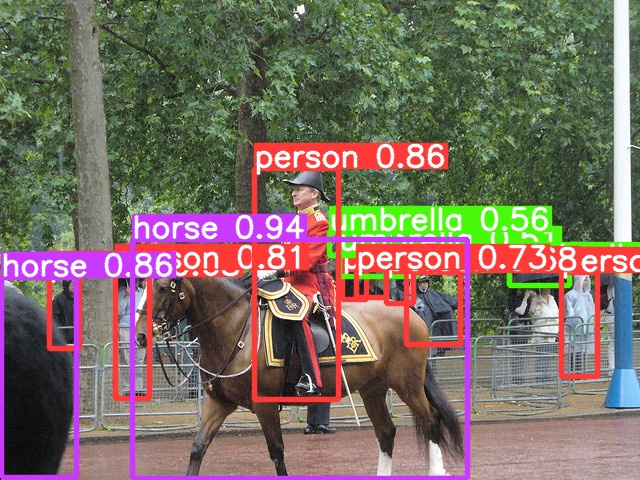
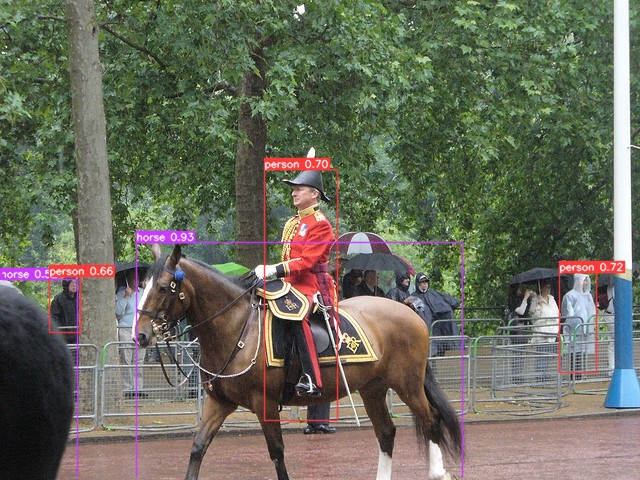
readme commit

Changed region(s): [[0.0, 0.2812, 1.0, 1.0]]

diff --git a/templates/index_bkp.html b/templates/index_bkp.html
@@ -11,7 +11,7 @@
 	<style>
 
 		.iupload h3 {
-			color: hsl(227, 66%, 25%);
+			color: #1b2d6b;
 			font-size: 30px;
 			font-weight: 700;
 		}
@@ -220,9 +220,9 @@ Model: <select name="model" id="model">
     <option value="" selected="selected">Please select framework first</option>
   </select>
   <br><br>
-<!-- Detection: <select name="detection" id="detection">
+Detection: <select name="detection" id="detection">
     <option value="" selected="selected">Please select model first</option>
-  </select> -->
+  </select>
    <input type="text" name="detectionData" value="" id="detectionData" ><br>
   <br><br>
   <!--<input type="submit" id="submit" value="Submit"> -->
@@ -417,7 +417,7 @@ var frameworkObject = {
 window.onload = function() {
   var frameworkSel = document.getElementById("framework");
   var modelSel = document.getElementById("model");
-//   var detectionSel = document.getElementById("detection");
+  var detectionSel = document.getElementById("detection");
   
   
   for (var x in frameworkObject) {
@@ -425,32 +425,32 @@ window.onload = function() {
   }
   frameworkSel.onchange = function() {
     //empty Detection- and Model- dropdowns
-    // detectionSel.length = 1;
+    detectionSel.length = 1;
     modelSel.length = 1;
     //display correct values
     for (var y in frameworkObject[this.value]) {
       modelSel.options[modelSel.options.length] = new Option(y, y);
     }
   }
-//   modelSel.onchange = function() {
+  modelSel.onchange = function() {
   
-//     //empty Detection dropdown
-//     detectionSel.length = 1;
-//     //display correct values
-//     var z = frameworkObject[frameworkSel.value][this.value];
-//     for (var i = 0; i < z.length; i++) {	
-//       detectionSel.options[detectionSel.options.length] = new Option(z[i], z[i]);
-//     }
+    //empty Detection dropdown
+    detectionSel.length = 1;
+    //display correct values
+    var z = frameworkObject[frameworkSel.value][this.value];
+    for (var i = 0; i < z.length; i++) {	
+      detectionSel.options[detectionSel.options.length] = new Option(z[i], z[i]);
+    }
 	
-// 	if(modelSel.value=="Others"){
-// 	 $('input[type=text]').show();
-// 	  $('#detection').hide();
-// 	}
-// 	else{
-// 	 $('input[type=text]').hide();
-// 	  $('#detection').show();
-// 	}
-//   }
+	if(modelSel.value=="Others"){
+	 $('input[type=text]').show();
+	  $('#detection').hide();
+	}
+	else{
+	 $('input[type=text]').hide();
+	  $('#detection').show();
+	}
+  }
   
   
 }

diff --git a/src/yolo_webapp/detect.py b/src/yolo_webapp/detect.py
@@ -7,20 +7,6 @@ sys.path.insert(0, ROOT)
 import argparse
 import torch
 import torch.backends.cudnn as cudnn
-
-# FILE = Path(__file__).resolve()
-# ROOT = FILE.parents[0]  # YOLOv5 root directory
-# ROOT="C:/Users/DELL/anaconda3/envs/test_new_v3/Lib/site-packages/yolo_webapp"
-# if str(ROOT) not in sys.path:
-#     sys.path.append(str(ROOT))  # add ROOT to PATH
-# print(Path.cwd())
-# print(ROOT)
-# os.chdir('c:')
-# print(Path.cwd())
-# ROOT = Path(os.path.relpath(ROOT, Path.cwd()))  # relative
-# print(os.getcwd())
-# print(ROOT)
-
 from models.common import DetectMultiBackend
 from utils.datasets import IMG_FORMATS, VID_FORMATS, LoadImages, LoadStreams
 from utils.general import (LOGGER, check_file, check_img_size, check_imshow, check_requirements, colorstr, cv2,
@@ -32,13 +18,6 @@ from com_ineuron_apparel.com_ineuron_utils import utils
 class DetectorYolov5():
 
     def __init__(self, filename,model_n):
-        # sys.path.insert(0, "C:/Users/DELL/anaconda3/envs/test_new_v3/Lib/site-packages/yolo_webapp")
-        # self.weights="./com_ineuron_apparel/predictor_yolo_detector/best.pt"  # model.pt path(s)
-        # self.weights="./com_ineuron_apparel/predictor_yolo_detector/weights/yolov5s.pt"
-        # self.weights=ROOT+"/com_ineuron_apparel/predictor_yolo_detector/weights/yolov5n.pt"
-        # self.weights="./com_ineuron_apparel/predictor_yolo_detector/weights/yolov5m.pt"
-        # self.weights="./com_ineuron_apparel/predictor_yolo_detector/weights/yolov5l.pt"
-        # self.weights="./yolo_webapp/com_ineuron_apparel/predictor_yolo_detector/weights/yolov5x.pt"
         if model_n=="yolov5n":
             print("\nThe model selected is yolov5n\n")
             self.weights="yolov5n.pt"
@@ -58,10 +37,6 @@ class DetectorYolov5():
             print("PLEASE SELECT THE YOLOv5 MODEL")
         self.source=filename
         self.data='utils/yolo_utils/coco128.yaml'
-        # self.source=ROOT+"/com_ineuron_apparel/predictor_yolo_detector/inference/images/"+filename  # file/dir/URL/glob, 0 for webcam
-        # self.data=ROOT+'/data/coco128.yaml'
-        # self.data='./data/data.yaml'  # dataset.yaml path
-        # self.data=None
         self.imgsz=(416, 416)  # inference size (height, width)
         self.conf_thres=0.5  # confidence threshold
         self.iou_thres=0.45  # NMS IOU threshold
@@ -80,12 +55,14 @@ class DetectorYolov5():
         self.project=ROOT+"/com_ineuron_apparel/predictor_yolo_detector/inference/output" # save results to project/name
         self.name='output_image.jpg'  # save results to project/name
         self.exist_ok=False  # existing project/name ok, do not increment
-        self.line_thickness=3  # bounding box thickness (pixels)
+        self.line_thickness=1  # bounding box thickness (pixels)
         self.hide_labels=False  # hide labels
         self.hide_conf=False  # hide confidences
         self.half=False  # use FP16 half-precision inference
         self.dnn=False  # use OpenCV DNN for ONNX inference
-
+        self.pred_counter=0
+        self.bboxes=[]
+        
 
     def run(self):
         weights= self.weights
@@ -200,6 +177,7 @@ class DetectorYolov5():
                         s += f"{n} {names[int(c)]}{'s' * (n > 1)}, "  # add to string
 
                     # Write results
+                    
                     for *xyxy, conf, cls in reversed(det):
                         if save_txt:  # Write to file
                             xywh = (xyxy2xywh(torch.tensor(xyxy).view(1, 4)) / gn).view(-1).tolist()  # normalized xywh
@@ -209,11 +187,13 @@ class DetectorYolov5():
 
                         if save_img or save_crop or view_img:  # Add bbox to image
                             c = int(cls)  # integer class
+                            self.pred_counter+=1
                             label = None if hide_labels else (names[c] if hide_conf else f'{names[c]} {conf:.2f}')
+                            self.bboxes.append(xyxy)
                             annotator.box_label(xyxy, label, color=colors(c, True))
                             if save_crop:
                                 save_one_box(xyxy, imc, file=save_dir / 'crops' / names[c] / f'{p.stem}.jpg', BGR=True)
-
+                        
                 # Stream results
                 im0 = annotator.result()
                 if view_img:
@@ -243,6 +223,7 @@ class DetectorYolov5():
             # Print time (inference-only)
             LOGGER.info(f'{s}Done. ({t3 - t2:.3f}s)')
 
+        
         # Print results
         t = tuple(x / seen * 1E3 for x in dt)  # speeds per image
         LOGGER.info(f'Speed: %.1fms pre-process, %.1fms inference, %.1fms NMS per image at shape {(1, 3, *imgsz)}' % t)
@@ -255,6 +236,9 @@ class DetectorYolov5():
     def detect_action(self):
         with torch.no_grad():
             self.run()
+        print(f"Number of Prediction= {self.pred_counter}")
+        print(self.bboxes)
+        # print(type(self.bboxes.tolist()))
         bgr_image = cv2.imread(ROOT+"/com_ineuron_apparel/predictor_yolo_detector/inference/output/output_image.jpg")
         # cv2.imwrite(ROOT+'/predicted_output_image.jpg', bgr_image)
         cv2.imwrite('predicted_output_image.jpg', bgr_image)

diff --git a/app_local.py b/app_local.py
@@ -4,16 +4,16 @@ from asyncio.windows_events import NULL
 from flask_cors import CORS, cross_origin
 import time
 
-from detectron2_webapp.ObjectDetector import DetectorDetectron
-from detectron2_webapp.com_ineuron_utils.utils import decodeImagedetectron
+from src.detectron2_webapp.ObjectDetector import DetectorDetectron
+from src.detectron2_webapp.com_ineuron_utils.utils import decodeImagedetectron
 
-from tf2_webapp.com_in_ineuron_ai_utils.utils import decodeImagetf2
-from tf2_webapp.detect import PredictorTF2
-from tf2_webapp.object_detection.utils import label_map_util
+from src.tf2_webapp.com_in_ineuron_ai_utils.utils import decodeImagetf2
+from src.tf2_webapp.detect import PredictorTF2
+from src.tf2_webapp.object_detection.utils import label_map_util
 
 
-from yolo_webapp.com_ineuron_apparel.com_ineuron_utils.utils import decodeImageyolov5
-from yolo_webapp.detect import DetectorYolov5
+from src.yolo_webapp.com_ineuron_apparel.com_ineuron_utils.utils import decodeImageyolov5
+from src.yolo_webapp.detect import DetectorYolov5
 
 
 os.putenv('LANG', 'en_US.UTF-8')

diff --git a/src/detectron2_webapp/ObjectDetector.py b/src/detectron2_webapp/ObjectDetector.py
@@ -95,8 +95,8 @@ class DetectorDetectron:
 		predictor = DefaultPredictor(self.cfg)
 		im = cv.imread(file)
 		outputs = predictor(im)
-		# print(outputs["instances"].pred_classes)
-		# print(outputs["instances"].pred_boxes)
+		print("Number of prediction =", len(outputs["instances"].pred_classes.tolist()))
+		print(outputs["instances"].pred_boxes)
 		metadata = MetadataCatalog.get(self.cfg.DATASETS.TRAIN[0])
 
 		# visualise

diff --git a/src/tf2_webapp/detect.py b/src/tf2_webapp/detect.py
@@ -155,6 +155,8 @@ class PredictorTF2:
             use_normalized_coordinates=True,
             line_thickness=3)
 
+        print(output_dict['detection_boxes'])
+        print(output_dict['detection_classes'])
         output_filename = 'predicted_output_image.jpg'
         cv2.imwrite(output_filename, cv2.cvtColor(image_np, cv2.COLOR_BGR2RGB))
         opencodedbase64 = encodeImageIntoBase64("predicted_output_image.jpg")

diff --git a/setup.py b/setup.py
@@ -8,7 +8,7 @@ USER_NAME = "saquibquddus"
 
 setuptools.setup(
     name="TDY_PKG",
-    version="1.1.2",
+    version="1.1.3",
     author=USER_NAME,
     author_email="sakibquddus@gmail.com",
     description="its an implimentation of TF-2 , Detectron and yolov5",

diff --git a/README.md b/README.md
@@ -1,1 +1,54 @@
-## Package for TF2 , Detectron and Yolo Inferencing.
+# Package for TF2 , Detectron2 and Yolov5 Inferencing.
+This packge can be useful to do inferencing on TF2, Detectron2 and yolov5.
+All the supported libraries are already added in the package.<br>
+User can select five pretrained model from each framework to do prediction.<br>
+## TF2
+1. ssd_mobilenet_v1_fpn_640x640_coco17_tpu-8<br>
+2. ssd_resnet101_v1_fpn_1024x1024_coco17_tpu-8<br>
+3. efficientdet_d4_coco17_tpu-32<br>
+4. faster_rcnn_resnet101_v1_1024x1024_coco17_tpu-8<br>
+5. efficientdet_d7_coco17_tpu-32<br>
+
+## Detectron2
+1. faster_rcnn_R_50_FPN_1x<br>
+2. faster_rcnn_R_50_FPN_3x<br>
+3. faster_rcnn_R_101_FPN_3x<br>
+4. retinanet_R_50_FPN_1x<br>
+5. faster_rcnn_R_50_C4_1x<br>
+
+## Yolov5
+1. yolov5n
+2. yolov5s
+3. yolov5m
+4. yolov5l
+5. yolov5x
+
+
+
+## How to Run?
+Step 1: 
+```python
+pip install TDY-PKG
+```
+Step 2:
+Copy the templates, utils folder and app.py file in any directory from the [Github link](https://github.com/saquibquddus/TF2_Detectron2_Yolov5_PKG)
+
+Step 3:
+Run app.py file.
+```python
+python app.py
+```
+
+Step 4:
+Go to : http://127.0.0.1:9502/
+
+Step 5:
+Upload Image and select Framework and Model. 
+![UI image](UI.JPG)
+
+Step 6:
+Click On Predict.(The model will get download in runtime to do prediction)
+![UI image](Predicted_UI.JPG)
+
+
+
